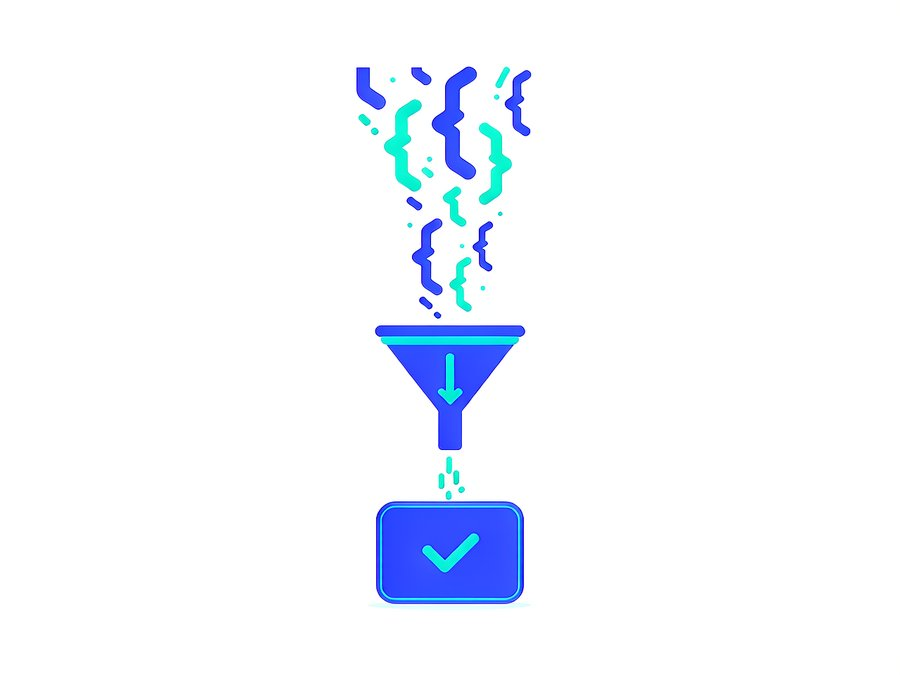
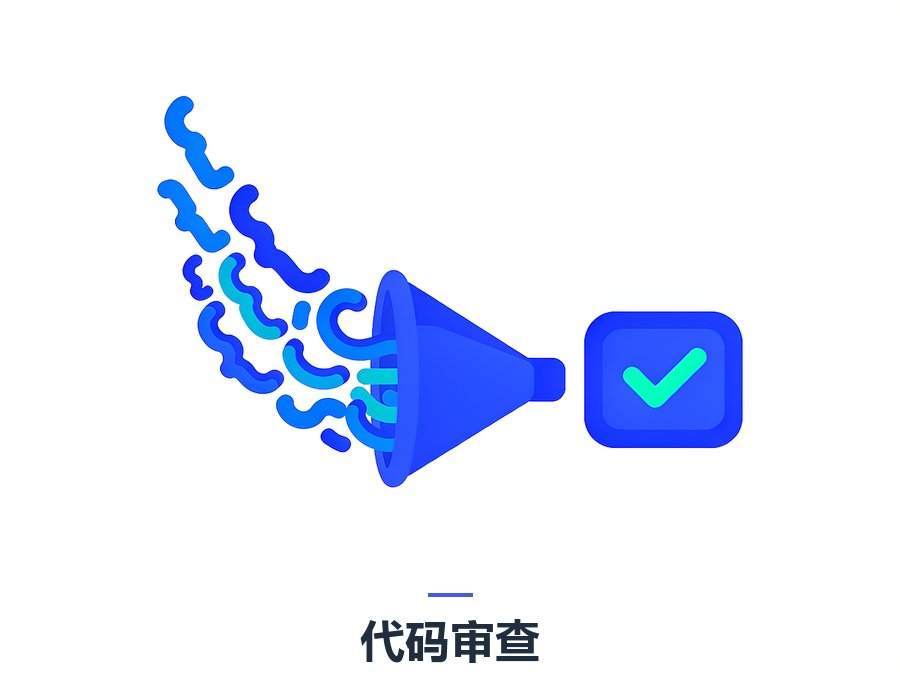
AI 封面加底部小标题（本地合成，不交给模型画）
- tools/hunyuan-covers.py：新增 TEXTS 字典（11 篇的小标题）与 draw_caption()，
  在 900x675 落盘前叠一行中文小标题 + 上方短蓝线，字号/墨色/蓝线和 logo 封面
  版式一致；混元画中文容易错字，所以文字全部本地合成，字形一定正确
- 指标（亮度/留白）改为在叠字之前量，避免小标题把留白测成贴边
- 11 张 AI 封面重新生成，逐张目测：标题清晰、无重叠、白底蓝青不变
- 工作流阶段 3 + SKILL.md 同步说明 TEXTS 与本地合成

Changed region(s): [[0.1556, 0.0933, 0.84, 0.9956]]

diff --git a/.pi/workflows/blog-write.js b/.pi/workflows/blog-write.js
@@ -114,7 +114,8 @@ const cover = await runs.run("cover", {
     "  4. 跑 `python tools/make-covers.py --only <slug>` 生成 900x675。脚本按「引用它的文章」自动落到 source/img/<年>/<月>/，文章还没写 frontmatter 时加 --dir 指定。",
     "",
     "B. 没有对应 logo（算法、AI 概念、项目拆解等）→ tools/hunyuan-covers.py 用混元生图：",
-    "  1. 在 PROMPTS 里加一条 <slug> 的 prompt（英文，主题描述具体有画面感）。",
+    "  1. 在 PROMPTS 里加一条 <slug> 的 prompt（英文，主题描述具体有画面感），",
+    "     并在 TEXTS 里加一条小标题（如 '二分查找'）；小标题由脚本本地合成，不交给模型画，避免中文错字。",
     "  2. 跑 `python tools/hunyuan-covers.py --only <slug>`，脚本自动压到 900x675、落盘到文章的年/月目录并打印亮度/留白。",
     "  3. 按脚本输出的硬指标自检，不合格就改 prompt 只重跑该张：",
     "     - 平均亮度 ≥ 200（白底；脚本会警告「底色偏暗」）",

diff --git a/tools/hunyuan-covers.py b/tools/hunyuan-covers.py
@@ -27,7 +27,7 @@ import sys
 import time
 import urllib.request
 import urllib.error
-
+from PIL import Image, ImageDraw, ImageFont
 from imgpaths import cover_dir
 
 from PIL import Image
@@ -41,12 +41,27 @@ KEY = os.environ.get('HUNYUAN_API_KEY', 'sk-NzawHDAIHMqxhqhn93tXMj1JW8omLdd810Hj
 SIZE = '1280x960'
 OUT_W, OUT_H = 900, 675
 QUALITY = 85
-
-# 风格模板：白底 + 主题蓝/青，扁平极简，无文字（保证和 logo 封面同一观感）
+# 风格模板：白底 + 主题蓝/青，扁平矢量，整幅完整入画。
+# 文字由脚本在本地合成（不交给模型画）——混元画中文容易错字，本地叠字字形一定正确。
 STYLE = ('pure white background, bright blue #425AEF and cyan #00c4b6 only, no beige, no warm tones, '
          'minimal flat vector illustration, zoomed out wide shot, entire composition fully visible '
          'inside the frame, centered with wide margins on all sides, nothing cropped, '
          'no 3d render, no photorealistic, no text, no letters, no watermark, no signature')
+
+# ── 底部小标题（TEXTS 里的 key = PROMPTS 里的 key）──
+TEXTS = {
+    'cover-binary':      '二分查找',
+    'cover-kmp':         'KMP 算法',
+    'cover-quicksort':   '快速排序',
+    'cover-cipherlens':  'CipherLens 拆解',
+    'agent-state-machines':   'Agent 状态机',
+    'ai-critical-thinking':   '批判性思考',
+    'cover-code-review':      '代码审查',
+    'super-agent-designs':    'Super Agent',
+    'cover-code':       '代码',
+    'cover-notes':      '笔记',
+    'cover-tools':      '工具',
+}
 
 PROMPTS = {
     # ── 算法笔记 ──
@@ -107,8 +122,27 @@ def extract_image_url(resp):
     return None
 
 
-def save(out_path, data):
-    """下载（或 base64 解码）→ 压到 900x675 落盘，返回 (尺寸, KB, 平均亮度, 内容留白比例)"""
+CAPTION_FONT = 'C:/Windows/Fonts/msyhbd.ttc'
+CAPTION_INK = (31, 45, 61)      # #1F2D3D
+CAPTION_ACCENT = (66, 90, 239)  # #425AEF
+
+
+def draw_caption(im, text):
+    """底部居中叠一行小标题 + 上方一条短蓝线，和 logo 封面的版式呼应"""
+    font = ImageFont.truetype(CAPTION_FONT, max(26, im.width // 20))
+    draw = ImageDraw.Draw(im)
+    box = draw.textbbox((0, 0), text, font=font)
+    tw, th = box[2] - box[0], box[3] - box[1]
+    x = (im.width - tw) / 2 - box[0]
+    y = im.height - 12 - th - box[1]
+    draw.rectangle([(im.width - 44) / 2, y - 16, (im.width + 44) / 2, y - 13], fill=CAPTION_ACCENT)
+    draw.text((x, y), text, font=font, fill=CAPTION_INK)
+    return im
+
+
+def save(out_path, data, text=''):
+    """下载（或 base64 解码）→ 压到 900x675 → 叠小标题 → 落盘，
+    返回 (尺寸, KB, 平均亮度, 内容留白比例)"""
     import base64
     import io
     if isinstance(data, dict) and data.get('b64_json'):
@@ -120,14 +154,16 @@ def save(out_path, data):
     im = Image.open(io.BytesIO(raw)).convert('RGB')
     if im.width != OUT_W:
         im = im.resize((OUT_W, round(im.height * OUT_W / im.width)), Image.LANCZOS)
-    im.save(out_path, 'JPEG', quality=QUALITY, optimize=True, progressive=True)
 
+    # 指标先在插画本体上量（小标题是本地叠的，不算内容留白）
     grey = im.convert('L')
     mean = sum(grey.getdata()) / (grey.width * grey.height)
-
-    # 内容贴边检测：非白像素的 bbox 距四边的最小留白（占短边比例）
     box = grey.point(lambda v: 255 if v < 235 else 0).getbbox()
     margin = min(box[0], box[1], im.width - box[2], im.height - box[3]) / min(im.width, im.height) if box else 1.0
+
+    if text:
+        im = draw_caption(im, text)
+    im.save(out_path, 'JPEG', quality=QUALITY, optimize=True, progressive=True)
     return im.size, os.path.getsize(out_path) // 1024, mean, margin
 
 
@@ -153,16 +189,18 @@ def main():
             data = extract_image_url(resp)
             if not data:
                 raise RuntimeError(json.dumps(resp, ensure_ascii=False)[:300])
-            size, kb, mean, margin = save(dest, data)
+            text = TEXTS.get(slug, '')
+            size, kb, mean, margin = save(dest, data, text)
             ok += 1
             warn = []
             if mean < 200:
                 warn.append('底色偏暗(亮度%.0f)' % mean)
             if margin < 0.03:
                 warn.append('构图贴边(留白%.1f%%)' % (margin * 100))
-            print('OK   %-30s %s %3dKB 亮度%.0f 留白%.0f%%%s' % (
+            print('OK   %-30s %s %3dKB 亮度%.0f 留白%.0f%%%s%s' % (
                 dest.replace('\\', '/'), size, kb, mean, margin * 100,
-                ('  ⚠ ' + '、'.join(warn) + '，改 prompt 重跑该张') if warn else ''))
+                ('  ⚠ ' + '、'.join(warn) + '，改 prompt 重跑该张') if warn else '',
+                ('  小标题: ' + text) if text else ''))
             time.sleep(0.4)
         except urllib.error.HTTPError as e:
             fail += 1

diff --git a/.pi/skills/hexo-anzhiyu-post/SKILL.md b/.pi/skills/hexo-anzhiyu-post/SKILL.md
@@ -129,7 +129,8 @@ highlight_shrink: true       # 代码块默认折叠
 
 **B. 没有 logo 的（算法笔记、AI 概念、项目拆解、默认封面）→ `tools/hunyuan-covers.py`（混元生图）**
 - prompt 模板 `STYLE` 已锁死主题配色（白底 + `#425AEF` + `#00c4b6`、扁平矢量、整幅不裁切、无文字无水印），只需在 `PROMPTS` 加每篇的主题描述
-- 跑 `python tools/hunyuan-covers.py --only <slug>`，脚本自动下载、压到 900x675 并落盘到文章对应年/月目录（默认封面落 `source/img/common/`）
+- 底部小标题**由脚本本地合成**（`TEXTS` 字典，key 与 `PROMPTS` 一致，例如 `'cover-kmp': 'KMP 算法'`），不交给模型画 —— 混元画中文容易错字，本地叠字字形一定正确，字号/位置/蓝线也和 logo 封面一致。改标题只改 `TEXTS`
+- 跑 `python tools/hunyuan-covers.py --only <slug>`，脚本自动下载、压到 900x675、落盘到文章的年/月目录并打印亮度/留白（指标在叠小标题**之前**量，不会被标题带偏）
 - 脚本自带硬指标，不合格必须改 prompt 只重跑该张（别整批重跑）：
   - 平均亮度 ≥ 200（白底，否则报「底色偏暗」）
   - 内容距四边留白 ≥ 3%（否则报「构图贴边」）
